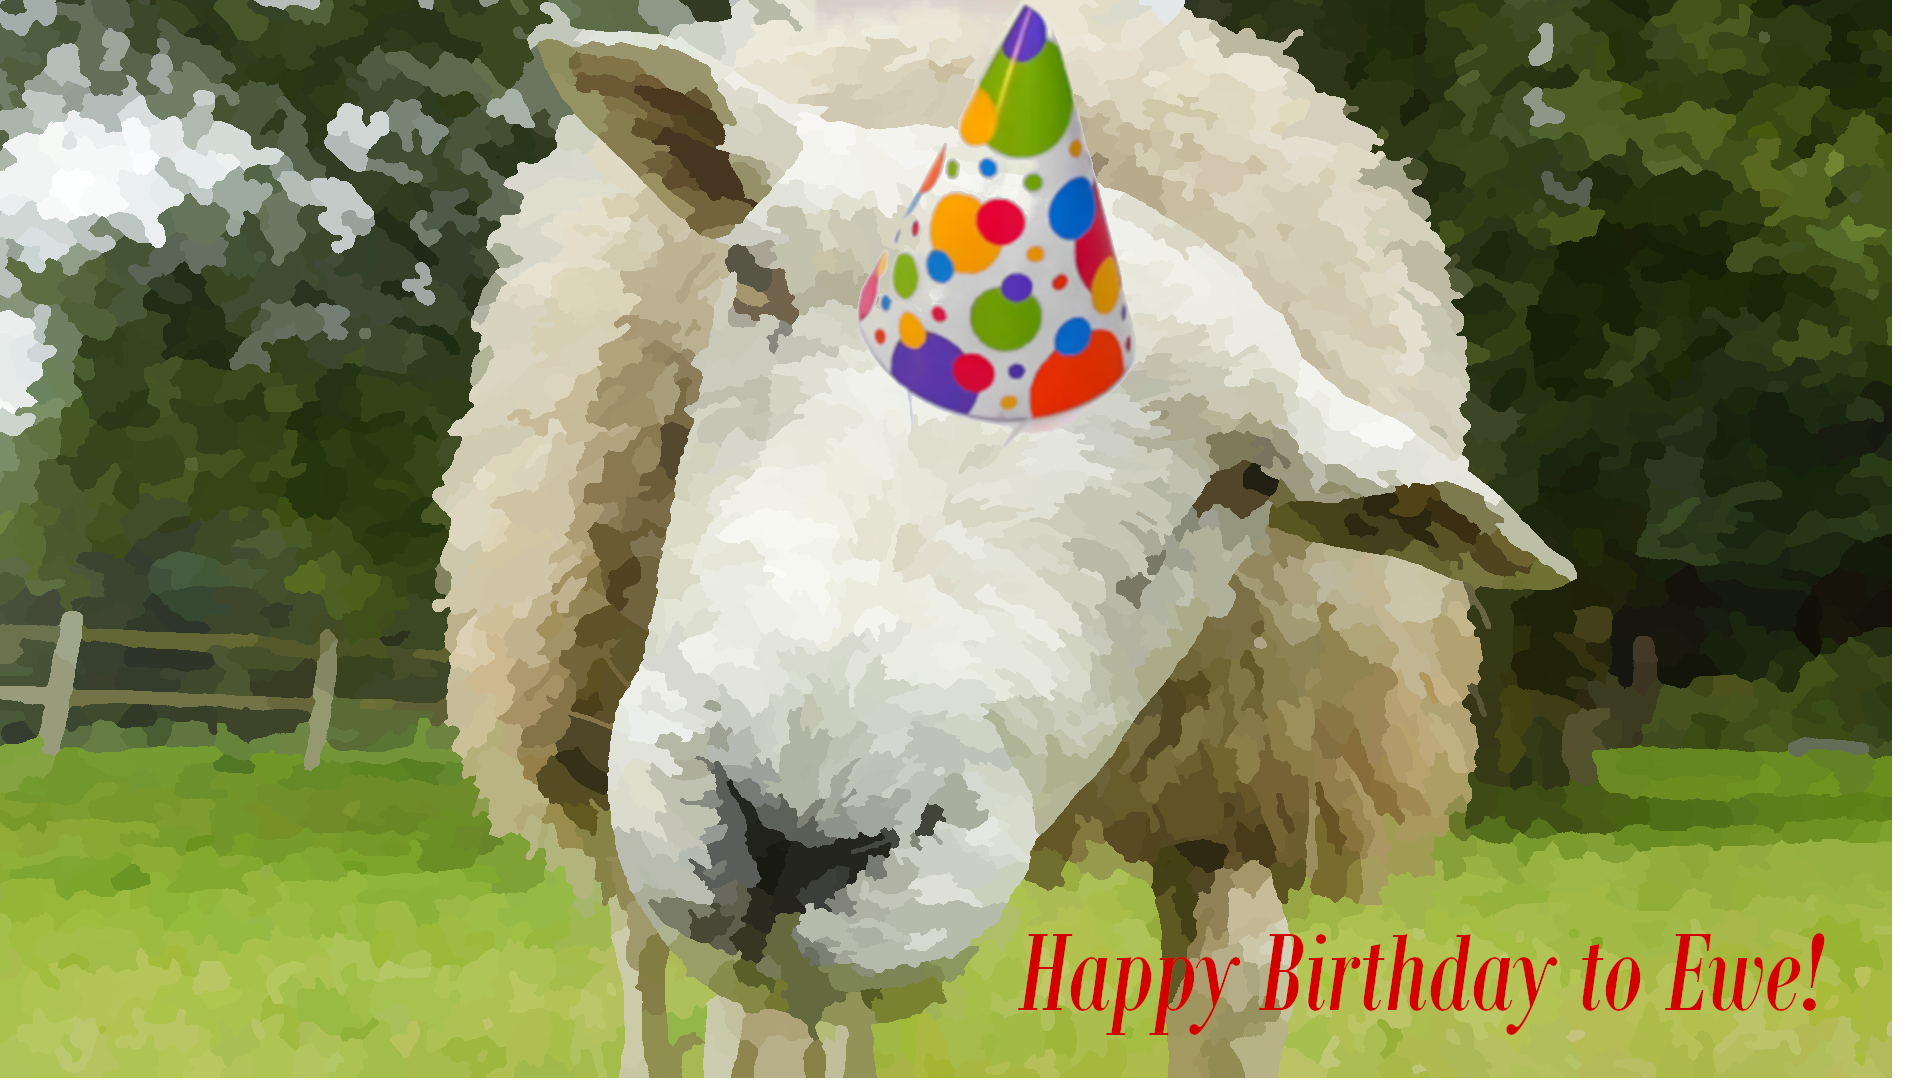
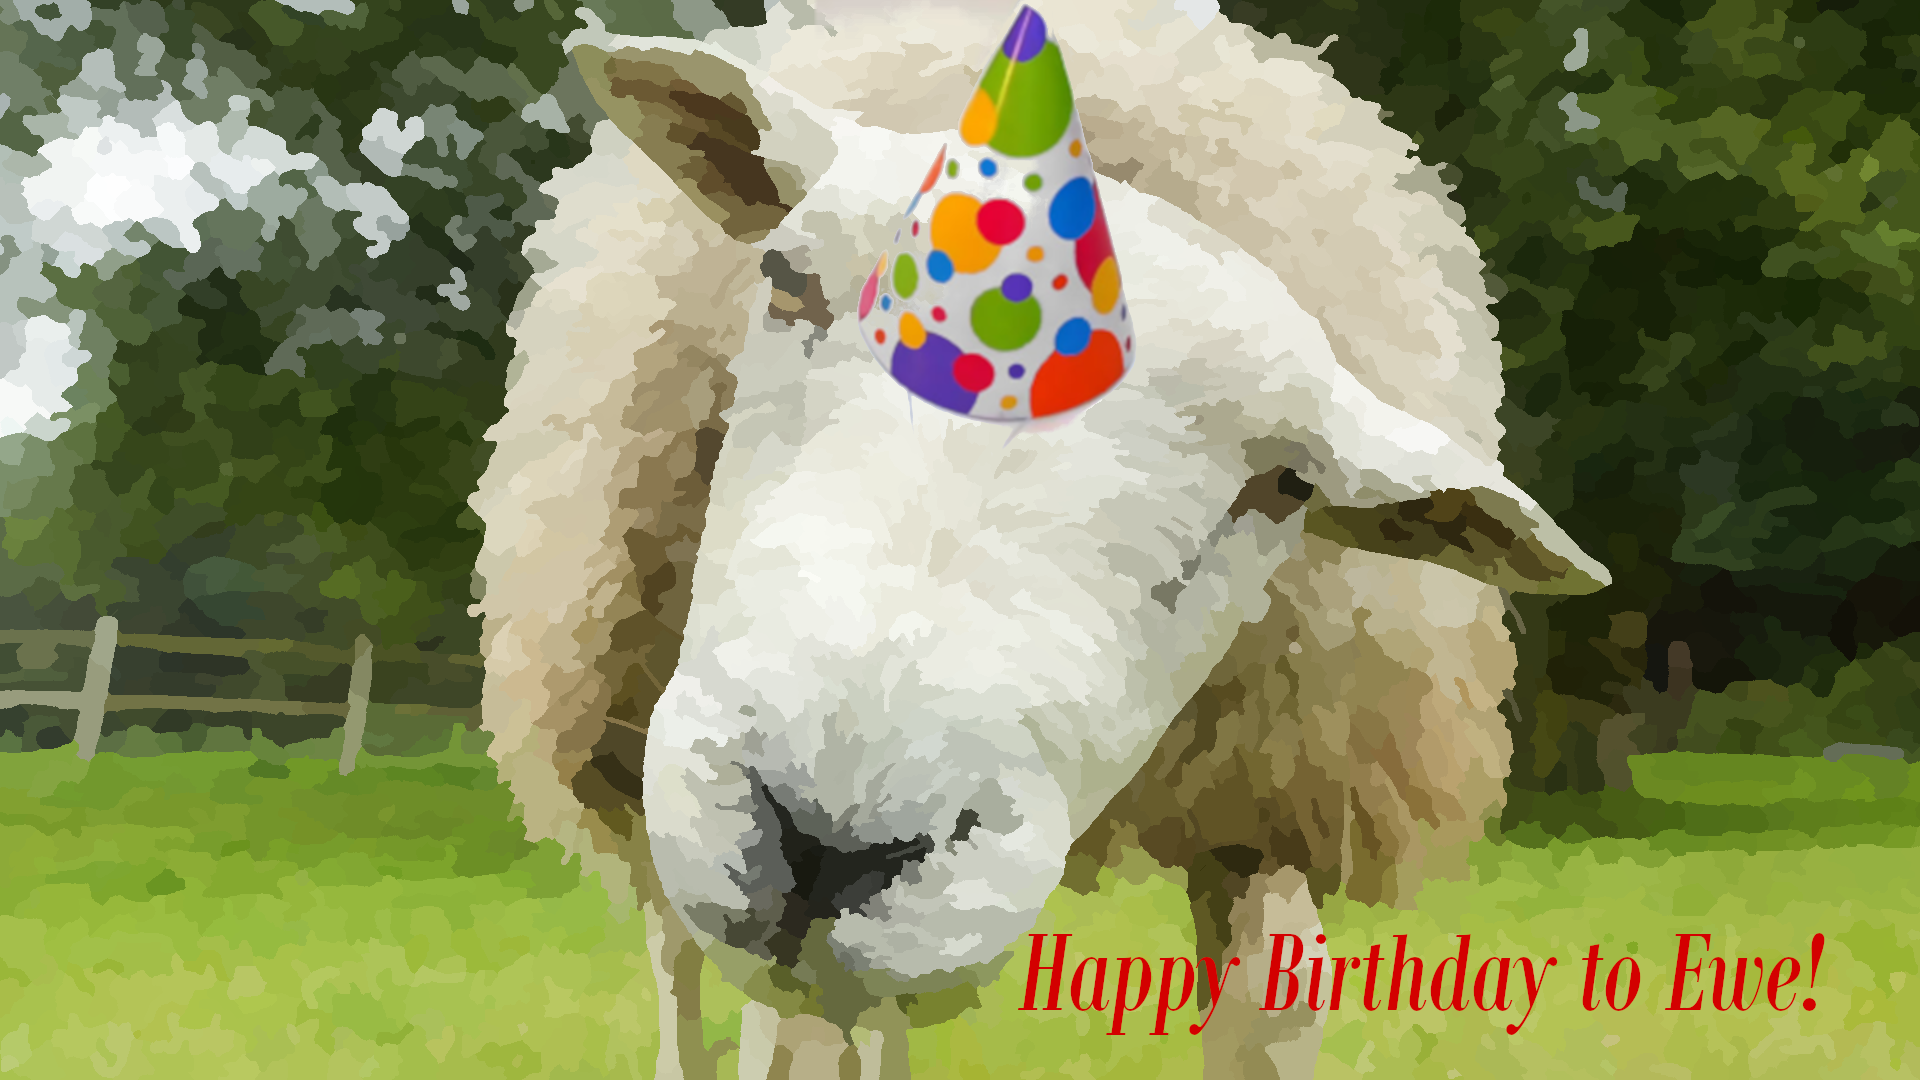
testing model-viewer code

diff --git a/index.html b/index.html
@@ -12,7 +12,7 @@
 
     <!-- The Hero Section -------------------------------------------------------------------------------------- -->
     <section class="hero">
-        <div class="hero-text">My Showcase Website</div>
+        <div class="hero-text">Mrs Lee's Showcase Website</div>
     </section>
 
 <!-- Topic zero ------------------------------------------------------------------------------------------------- -->
@@ -26,20 +26,20 @@
         <div class="topic-content">
             <!-- one "card" which includes an image with a text below it -->
             <div class="topic-card">
-                <img src="images/sheep-card-2026.png" alt="change this too!">
-                <h2 class="topic-card-text">Birthday card</h2>
+                <img src="images/cottons.jpg" alt="change this too!">
+                <h2 class="topic-card-text">Passionate Crafter</h2>
             </div>
             <div class="topic-card">
-                <img src="images/placeholder-1024x1024.png" alt="change this too!">
-                <h2 class="topic-card-text">Placeholder image</h2>
+                <img src="images/vex-worlds.jpg" alt="change this too!">
+                <h2 class="topic-card-text">VEX Worlds 2025</h2>
             </div>
             <div class="topic-card">
-                <img src="images/placeholder-1024x1024.png" alt="change this too!">
-                <h2 class="topic-card-text">Placeholder image</h2>
+                <img src="images/swiss-flag.jpg" alt="change this too!">
+                <h2 class="topic-card-text">AFS student to CH 1988-89</h2>
             </div>
         </div>
     </section>
-<!-- End of topic one------------------------------------------------------------------------------------------ -->
+<!-- End of topic zero------------------------------------------------------------------------------------------ -->
 
 
 <!-- Topic one ------------------------------------------------------------------------------------------------- -->
@@ -54,45 +54,45 @@
             <!-- one "card" which includes an image with a text below it -->
             <div class="topic-card">
                 <img src="images/sheep-card-2026.png" alt="change this too!">
-                <h2 class="topic-card-text">Birthday card</h2>
+                <h2 class="topic-card-text">Sheep Birthday card</h2>
             </div>
             <div class="topic-card">
-                <img src="images/placeholder-1024x1024.png" alt="change this too!">
-                <h2 class="topic-card-text">Placeholder image</h2>
+                <img src="images/dragon-card-2026.png" alt="change this too!">
+                <h2 class="topic-card-text">Dragon Birthday Card</h2>
             </div>
             <div class="topic-card">
-                <img src="images/placeholder-1024x1024.png" alt="change this too!">
-                <h2 class="topic-card-text">Placeholder image</h2>
+                <img src="images/teacher-meme.webp" alt="change this too!">
+                <h2 class="topic-card-text">True EVERY day!</h2>
             </div>
         </div>
     </section>
 <!-- End of topic one------------------------------------------------------------------------------------------ -->
 
 <!-- Topic two ------------------------------------------------------------------------------------------------- -->
-    <!-- The First Topic Section -->
+    <!-- The Second Topic Section -->
     <section class="topic">
         <!-- the topic title a big bar with text in it -->
         <div class="topic-title">
-            <h1>Turtle</h1>
+            <h1>Turtle Python artwork</h1>
         </div>
         <!-- now a three column grid of images -->
         <div class="topic-content">
             <!-- one "card" which includes an image with a text below it -->
             <div class="topic-card">
-                <img src="images/sheep-card-2026.png" alt="change this too!">
-                <h2 class="topic-card-text">Birthday card</h2>
+                <img src="images/mona-lisa-orginal.webp" alt="change this too!">
+                <h2 class="topic-card-text">Inspiration</h2>
+            </div>
+            <div class="topic-card">
+                <img src="images/mona-lisa-simplified.jpg" alt="change this too!">
+                <h2 class="topic-card-text">Simplified by AI</h2>
             </div>
             <div class="topic-card">
                 <img src="images/placeholder-1024x1024.png" alt="change this too!">
-                <h2 class="topic-card-text">Placeholder image</h2>
-            </div>
-            <div class="topic-card">
-                <img src="images/placeholder-1024x1024.png" alt="change this too!">
-                <h2 class="topic-card-text">Placeholder image</h2>
+                <h2 class="topic-card-text">My version</h2>
             </div>
         </div>
     </section>
-<!-- End of topic one------------------------------------------------------------------------------------------ -->
+<!-- End of topic two------------------------------------------------------------------------------------------ -->
 
 
 <!-- Copy and paste the section from above to make your next section -->
@@ -101,7 +101,7 @@
 
     <!-- A Simple Website Footer ------------------------------------------------------------------------------ -->
     <footer class="footer">
-        <p>&copy; 2025 My Showcase Website By Student Name</p>
+        <p>&copy; 2025 My Showcase Website By Mrs Lee</p>
     </footer>
 
 <!-- The end of the whole page- no more content after this! -->

diff --git a/test.html b/test.html
@@ -1,0 +1,32 @@
+<!DOCTYPE html>
+<html lang="en">
+<head>
+  <meta charset="UTF-8">
+  <meta name="viewport" content="width=device-width, initial-scale=1.0">
+  <title>3D Model Viewer</title>
+  
+  <!-- Import the <model-viewer> web component library -->
+  <script type="module" src="https://googleapis.com"></script>
+
+  <style>
+    /* Give the viewer a designated size on the page */
+    model-viewer {
+      width: 100%;
+      height: 500px;
+      background-color: #f0f0f0;
+    }
+  </style>
+</head>
+<body>
+
+  <!-- 3D Viewer Element -->
+  <model-viewer 
+    src="models/basic-block.glb" 
+    alt="A 3D model of a basic block" 
+    camera-controls 
+    auto-rotate 
+    ar>
+  </model-viewer>
+
+</body>
+</html>

diff --git a/style.css b/style.css
@@ -16,7 +16,7 @@ img {
 
 /* The hero section styling- use your OWN Hero Image URL here */
 .hero {
-    background-image: url('images/ethan_banner.png');
+    background-image: url('images/banner.png');
     height: 25vh;
     background-size: cover;
     background-position: center;
